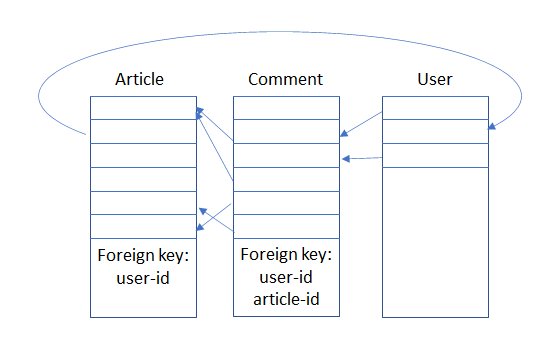
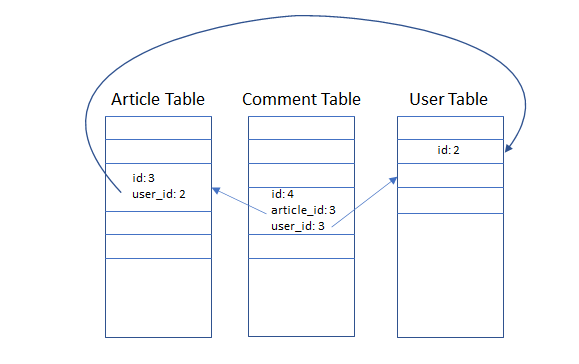
finalize readme.md

diff --git a/README.md b/README.md
@@ -8,59 +8,69 @@ https://tech-blog-2542.herokuapp.com/
 ## Installation
 The GitHub repository for this web app is (https://github.com/minprocess/14-Tech-Blog)
 
-After cloning or forking the repo install npm packages with
-npm i
+After cloning or forking the repo install npm packages on a command line with  
+`npm i`
 
-
-
-## Usage
-
-
-The following commands deploy to Heroku. Note that the Heroku CLI has to be installed on the PC with source code for this project.  
-`heroku create`
-`git push heroku main`
-
-This server/backend works with mySQL on the PC used for development or on Heroku.
+If you are going to use this app on your own PC you will have to have mySQL installed on your PC. Make a copy of `.env.EXAMPLE` and rename it `.env`. In `.env` you will have to set the database name, password and user. MySQL Workbench is an easy to use interface to mySQL on your PC and to JAWSDB on Heroku.
 
 To seed the database on the development PC use one of the following commands  
 `node seeds/index.js`  
 `npm start seeds/index.js`
 
-To seed the database on Heroku use this command  
+If you are going to deploy this app in your own account on Heroku you will need to add a JAWSDB resource. To seed the database on Heroku use this command after installing Heroku CLI.  
 `heroku run node seeds/seed.js`
 
-To start this server on Heroku, click the Start App button in the page f
-https://coding-boot-camp.github.io/full-stack/heroku/deploy-with-heroku-and-mysql
+To use git to deploy this app to Heroku use the following commands (after installing Heroku CLI).  
+`heroku create`
+`git push heroku main`
 
-https://coding-boot-camp.github.io/full-stack/heroku/heroku-deployment-guide
-1. Create Heroku app with Heroku CLI. The app will have a random name. `heroku create`
-https://tech-blog-2542.herokuapp.com
+This server/backend works with mySQL on the PC or JAWSDB on Heroku.
 
+The file package.json includes some dev packages for ESlint and Prettier. ESlint was run only one time. Only two problems were found. They were corrected. Since then ESlint has not been run.
 
-2. check with git remote -v
-heroku  https://git.heroku.com/tech-blog-2542.git (fetch)
-heroku  https://git.heroku.com/tech-blog-2542.git (push)
-origin  git@github.com:minprocess/14-Tech-Blog.git (fetch)
-origin  git@github.com:minprocess/14-Tech-Blog.git (push)
-3. Add commit push to heroku
-````
-git add -A
-git commit -m "Pushing to Heroku"
-git push heroku main
-````
-<br>
-<br>
+## Usage
 
-![Data model showing relationships between articles, users and comments](./assets/data-model.png)
-<br>
-<br>  
+To start the backend on your local PC use the command  
+`node server.js`  
 
-![homepage](./assets/homepage-snapshot.png)  
-<br>
-<br>
+Go to a browser and in the address bar type `localhost:3001`. To run on Heroku, copy/paste the following into a browser address box  
+`https://tech-blog-2542.herokuapp.com/`  
 
-![Dashboard of Xandromus with his posts](./assets/dashboard-of-Xandromus.png)
-<br>
-<br>
+The schematic below shows the database after user id:2 creates the article id:3 and user id:3 adds a comment. user_id and article_id and foreign keys.  
+
+![Data model showing relationships between articles, users and comments](./assets/data-model.png)  
+
+The screen capture belows shows the homepage. To see the comments for an article click on the title.
+
+![Homepage with title and content of all posts](./assets/homepage-snapshot.png)  
+
+The screen capture below shows the titles of posts made by Xandromus. To edit an article click on the title. Click on the Post button to create a post.  
+
+![Dashboard of Xandromus with his posts](./assets/dashboard-of-Xandromus.png)  
+
+The screen capture below shows the comments of an article. This page is reached by clicking the title of an article on the homepage.  
 
 ![article 1](./assets/article-1-page-snapshot.png)  
+
+## MIT License
+
+Copyright (c) 2021 William Pate
+
+Permission is hereby granted, free of charge, to any person obtaining a copy
+of this software and associated documentation files (the "Software"), to deal
+in the Software without restriction, including without limitation the rights
+to use, copy, modify, merge, publish, distribute, sublicense, and/or sell
+copies of the Software, and to permit persons to whom the Software is
+furnished to do so, subject to the following conditions:
+
+The above copyright notice and this permission notice shall be included in all
+copies or substantial portions of the Software.
+
+THE SOFTWARE IS PROVIDED "AS IS", WITHOUT WARRANTY OF ANY KIND, EXPRESS OR
+IMPLIED, INCLUDING BUT NOT LIMITED TO THE WARRANTIES OF MERCHANTABILITY,
+FITNESS FOR A PARTICULAR PURPOSE AND NONINFRINGEMENT. IN NO EVENT SHALL THE
+AUTHORS OR COPYRIGHT HOLDERS BE LIABLE FOR ANY CLAIM, DAMAGES OR OTHER
+LIABILITY, WHETHER IN AN ACTION OF CONTRACT, TORT OR OTHERWISE, ARISING FROM,
+OUT OF OR IN CONNECTION WITH THE SOFTWARE OR THE USE OR OTHER DEALINGS IN THE
+SOFTWARE.
+
